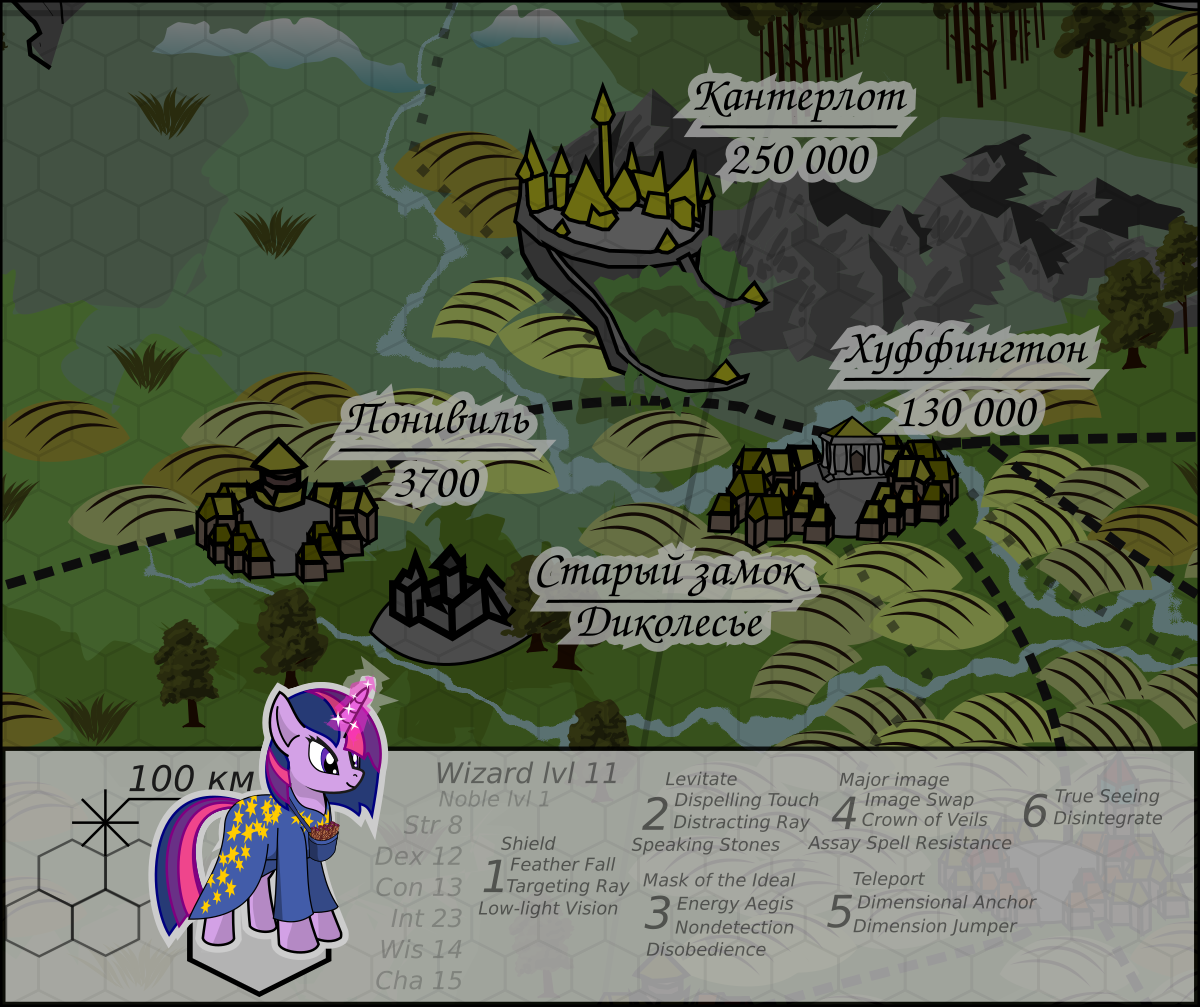
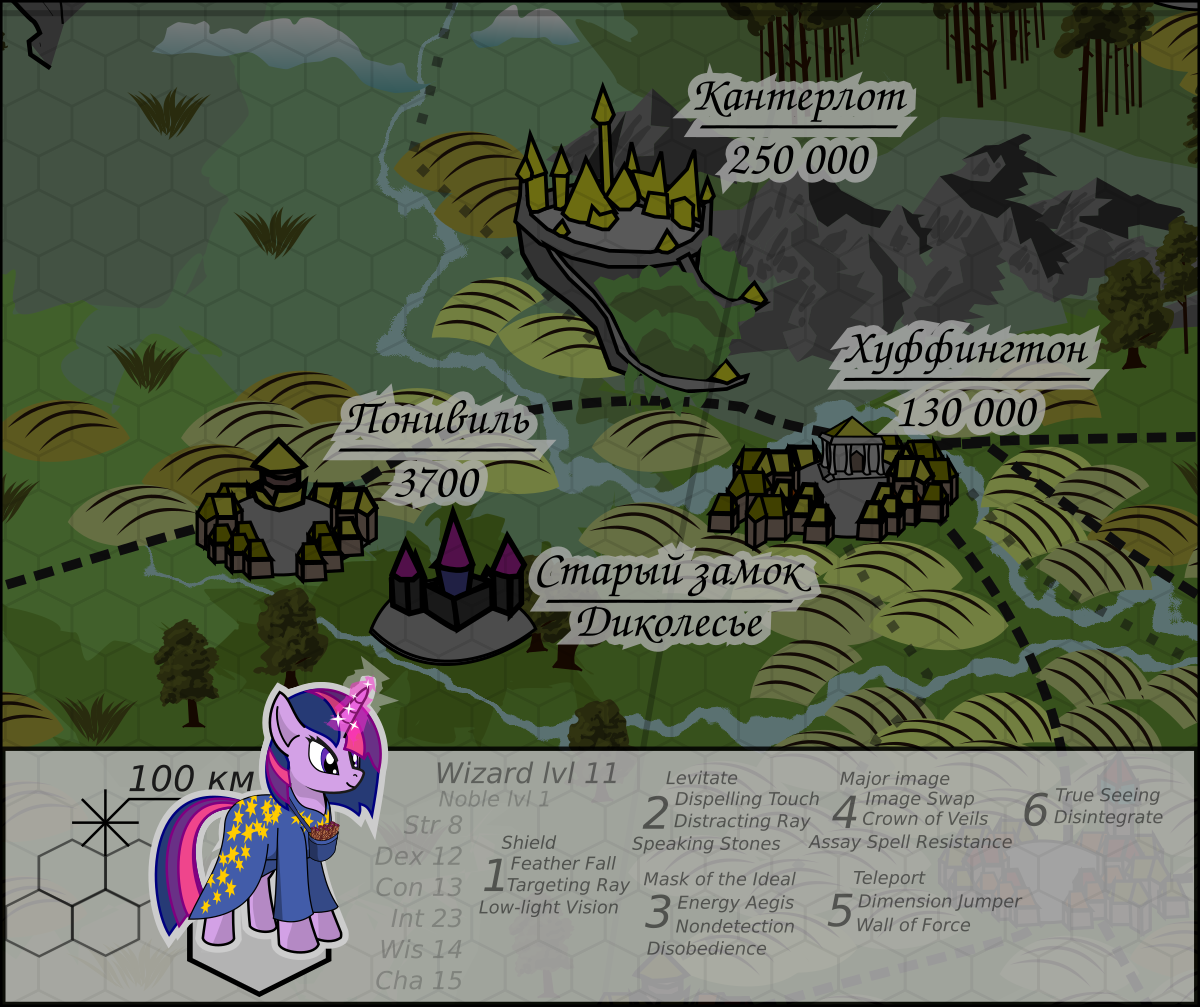
Иллюстрация, заклинания Найтмер Мун.

diff --git a/chapters/chapter_02.md b/chapters/chapter_02.md
@@ -2,7 +2,7 @@
 
 ## Карта
 
-![Карточка Твайли](/images/maps-new/ch02_1_Twily.png)
+![Карточка Твайли-посла](/images/maps-new/ch02_1_Twily.png)
 
 ## POV Твайлайт
 
@@ -66,7 +66,7 @@
 
 — Зажигайте! Небо, зажигайте!
 
-Минута, другая — мучительное ожидание — и горизонт окрасило всполохами: на севере Понивиля разгоралась заря. Алюминий и магний, пороховые ракеты, мили вересковых полей. Глоу предлагала воспользоваться кристальным сердцем, что было бы и чище, и красивее, но Твайлайт настояла. Магия то, магия это — на самом деле не всё в мире сводилось к магии. Они и без магии могли доказать, что многого достигли за века.
+Минута, другая — мучительное ожидание — и горизонт окрасило всполохами: на севере Понивиля разгоралась заря. Алюминий и магний, пороховые ракеты, мили вересковых полей. Глоу предлагала воспользоваться кристальным сердцем, что было бы и чище, и красивее, но Твайлайт настояла. Магия то, магия это — не всё в мире сводилось к магии. Они и без магии могли доказать, что многого достигли за века.
 
 Вспышки, грохот, прищуренные глаза. Первая волна фейерверков раскрылась белой полосой в небе, вторая дополнила её; затем пришла и третья, и четвёртая. Линии сложились в символы, а символы в слова:
 

diff --git a/chapters/chapter_03.md b/chapters/chapter_03.md
@@ -2,7 +2,7 @@
 
 ## Карта
 
-![Карта от Кантерлота до Мэйнхеттена](/images/maps/ch03_map_canterlot.png)
+![Карточка Твайли-рыцаря](/images/maps-new/ch03_1_Twily.png)
 
 ## POV Твайлайт
 
@@ -87,6 +87,10 @@
 Магия > Растения > Свет и тепло.
 
 Твайлайт начинала ненавидеть себя за то, что всегда предпочитала простое сложному, и для любого дела выбирала кратчайший алгоритм.
+
+## Карта
+
+![Карточка Найтмер Мун](/images/maps-new/ch03_2_Luna.png)
 
 ## POV Найтмер Мун
 
